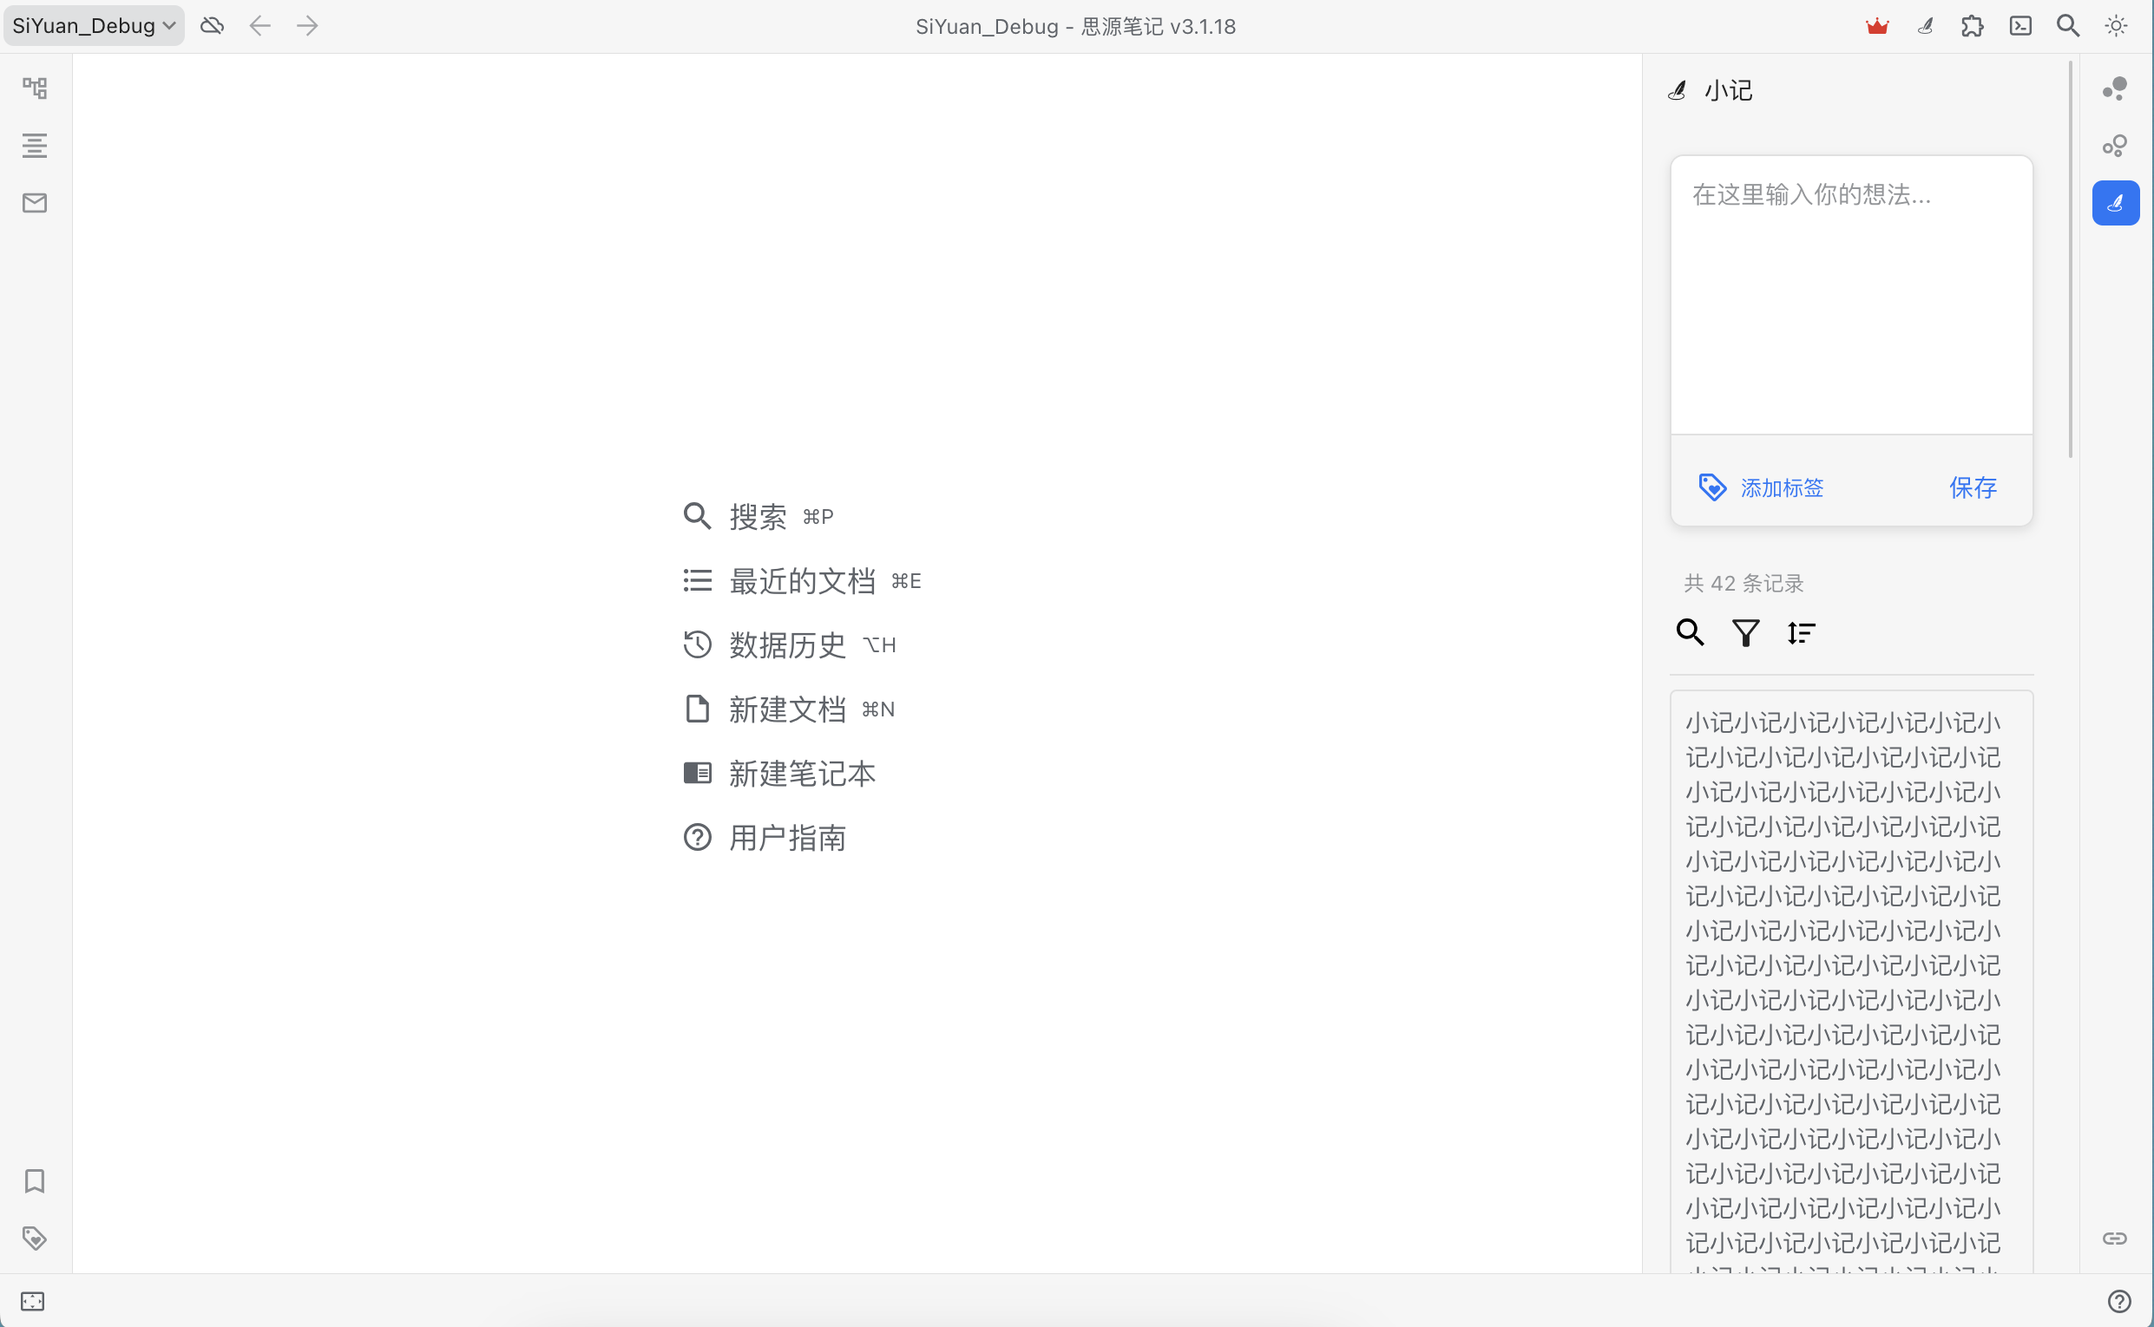
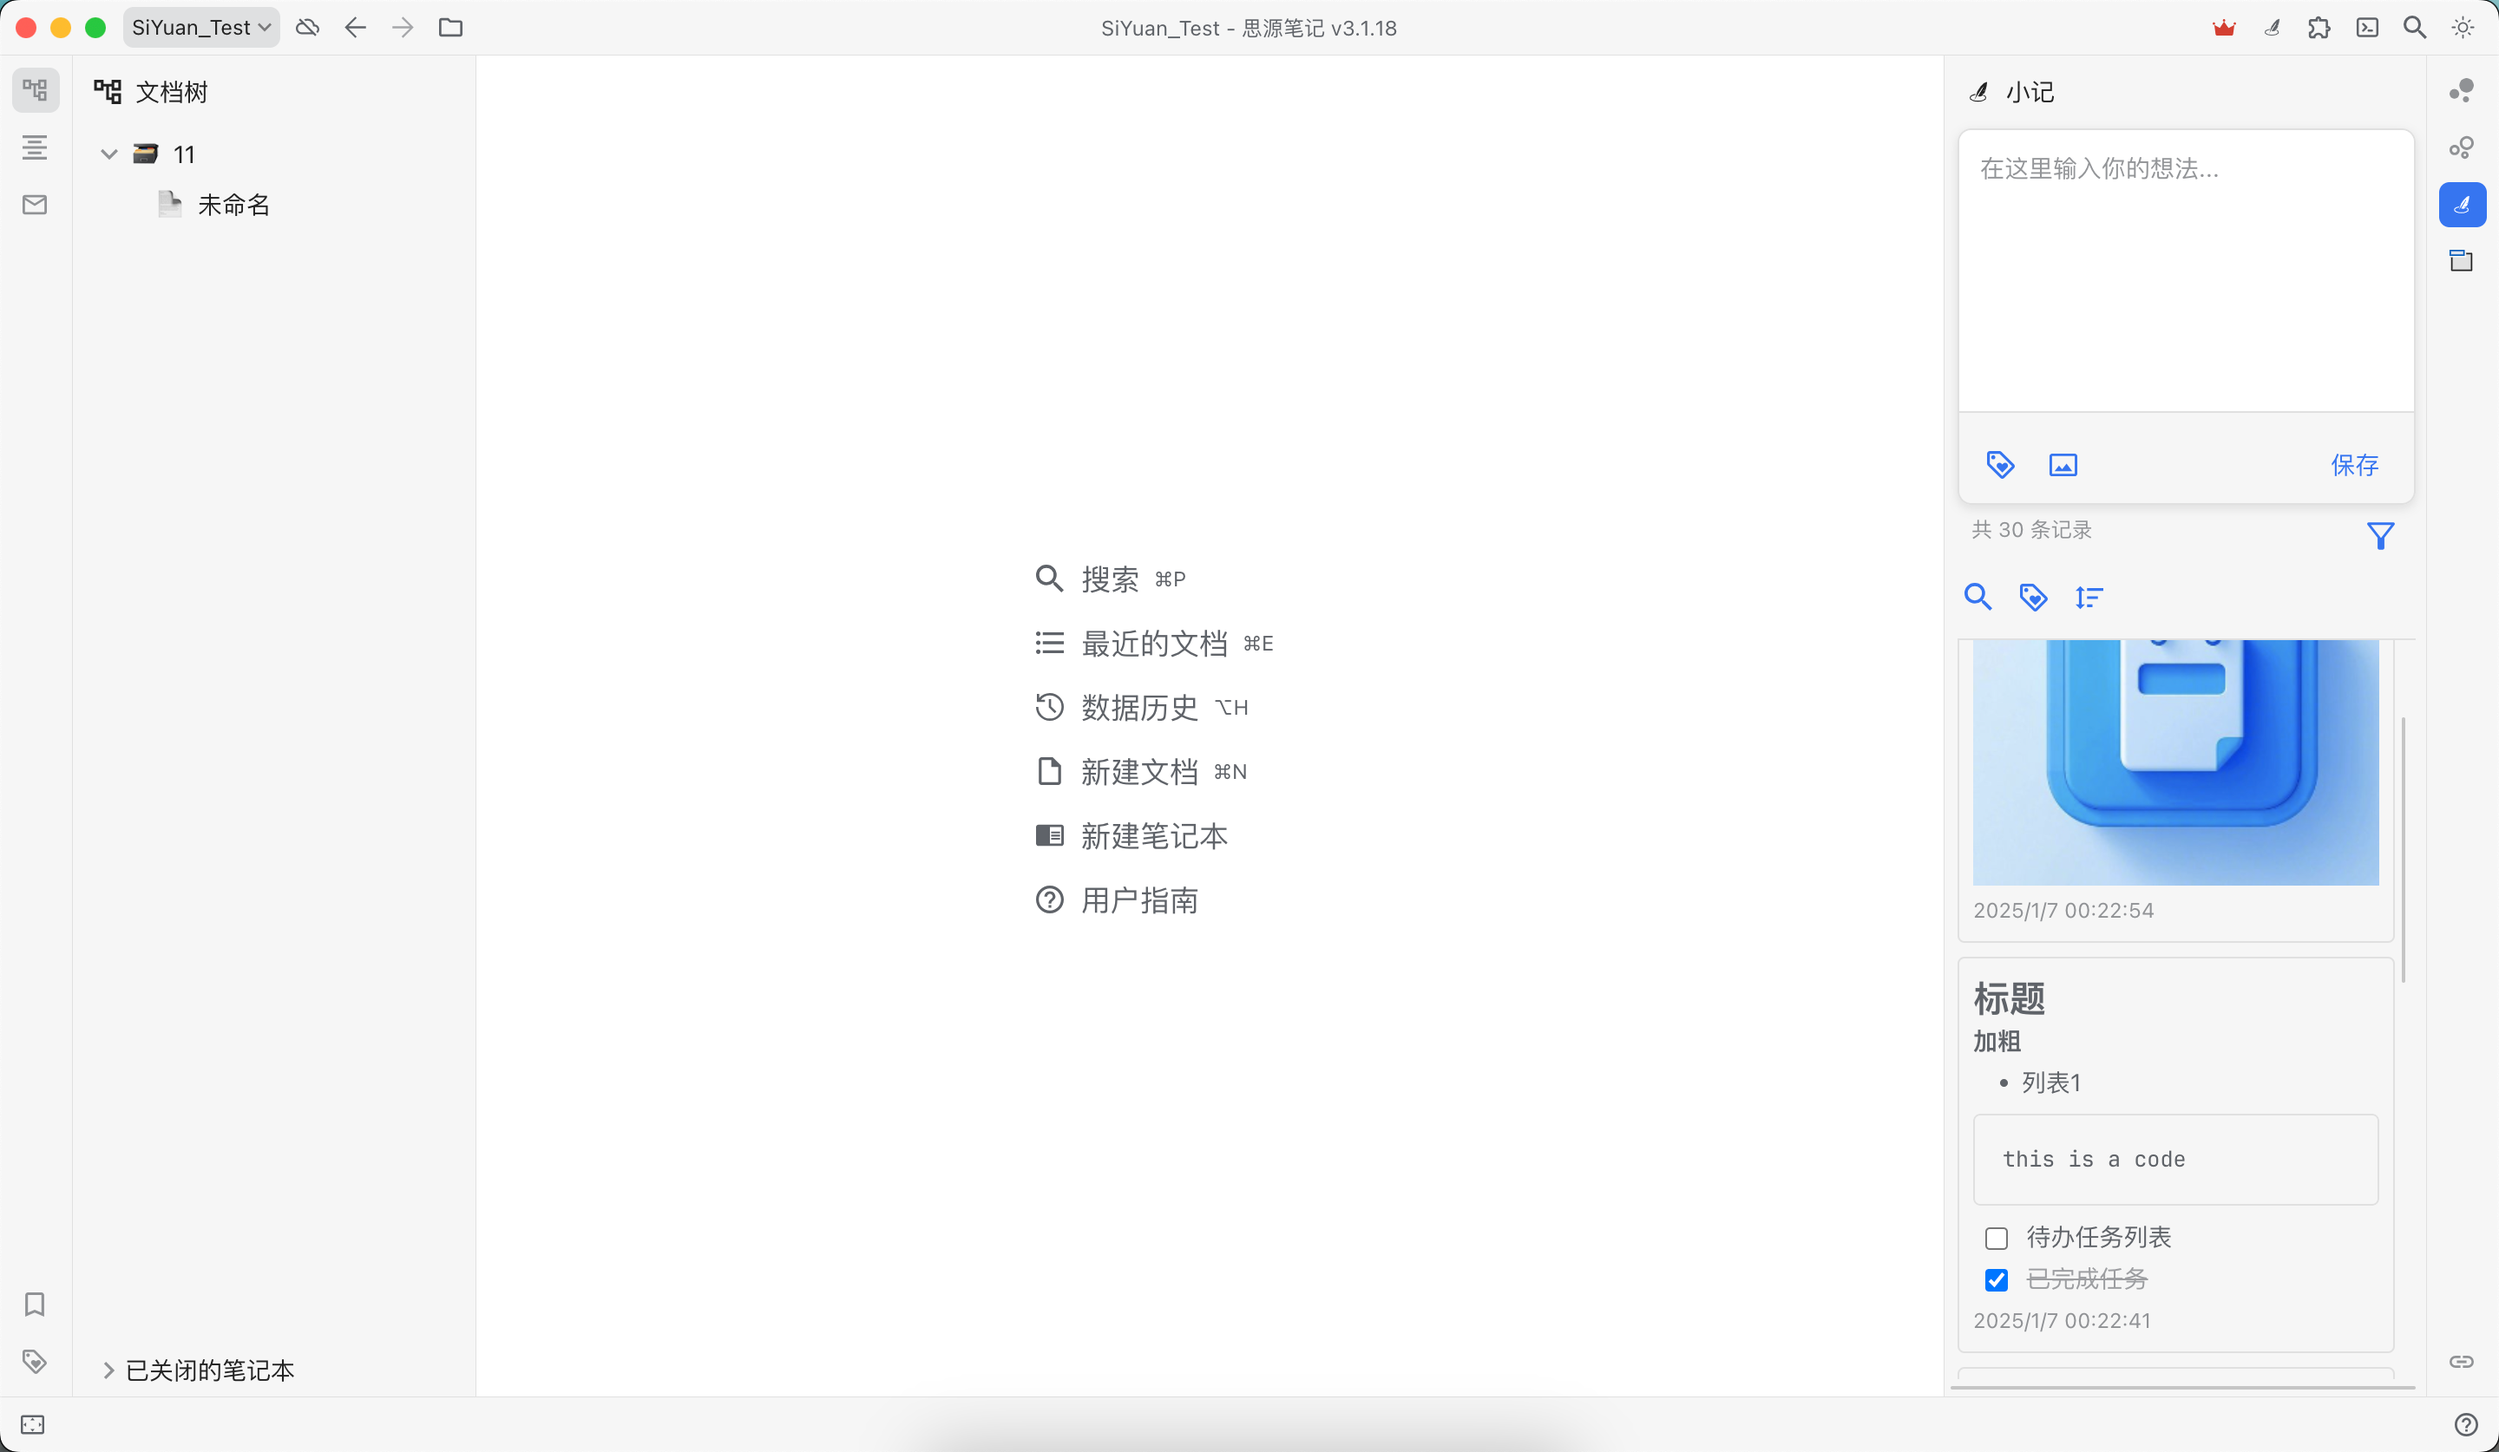
优化待办列表

diff --git a/src/index.ts b/src/index.ts
@@ -1016,8 +1016,8 @@ export default class PluginQuickNote extends Plugin {
                     const taskItemText = target.nextElementSibling.textContent.trim();
                     
                     // 使用更精确的替换方法
-                    const oldTaskItem = `${originalMark}${taskItemText}`;
-                    const newTaskItem = `${newMark}${taskItemText}`;
+                    const oldTaskItem = `${originalMark} ${taskItemText}`;
+                    const newTaskItem = `${newMark} ${taskItemText}`;
                     note.text = note.text.replace(oldTaskItem, newTaskItem);                   
                     await this.historyService.updateItemContent(timestamp, note.text);
                     
@@ -1250,17 +1250,22 @@ export default class PluginQuickNote extends Plugin {
 
         // 处理任务列表
         const processTaskList = (content: string) => {
-            // 然后处理任务列表，使用新的正则表达式匹配多行
+            // 使用捕获组来保存原始的方括号格式
             return content.replace(
-                /(\[\]|\[x\])([^\n]*)/g,
+                /(\[[ ]?\]|\[[ ]?x[ ]?\]) ([^\n]*)/g,
                 (match, checkbox, text) => {
-                    const isChecked = checkbox === '[x]';
+                    const isChecked = checkbox.includes('x');
+                    // 保持原始的方括号格式
+                    const emptyBox = checkbox.includes(' ') ? '[ ]' : '[]';
+                    const checkedBox = checkbox.includes(' ') ? '[x ]' : '[x]';
+                    const normalizedCheckbox = isChecked ? checkedBox : emptyBox;
+                    
                     return `
                         <div class="task-list-item">
                             <input type="checkbox" 
                                 class="task-list-item-checkbox" 
                                 ${isChecked ? 'checked' : ''} 
-                                data-original="${checkbox}"  data-timestamp="${item.timestamp}">
+                                data-original="${normalizedCheckbox}"  data-timestamp="${item.timestamp}">
                             <span style="${isChecked ? 'text-decoration: line-through; opacity: 0.6;' : ''}">${text.trim()}</span>
                         </div>`;
                 }

diff --git a/src/components/HistoryService.ts b/src/components/HistoryService.ts
@@ -557,8 +557,6 @@ export class HistoryService {
             // 查找并更新活动记录
             const activeItem = this.getCurrentData().find(item => item.timestamp === timestamp);
             if (activeItem) {
-                console.log(newText)
-                console.log("updateItemContent", activeItem);
                 activeItem.text = newText;
                 await this.saveData(this.getStorageKey(), this.getCurrentData());
                 return true;
